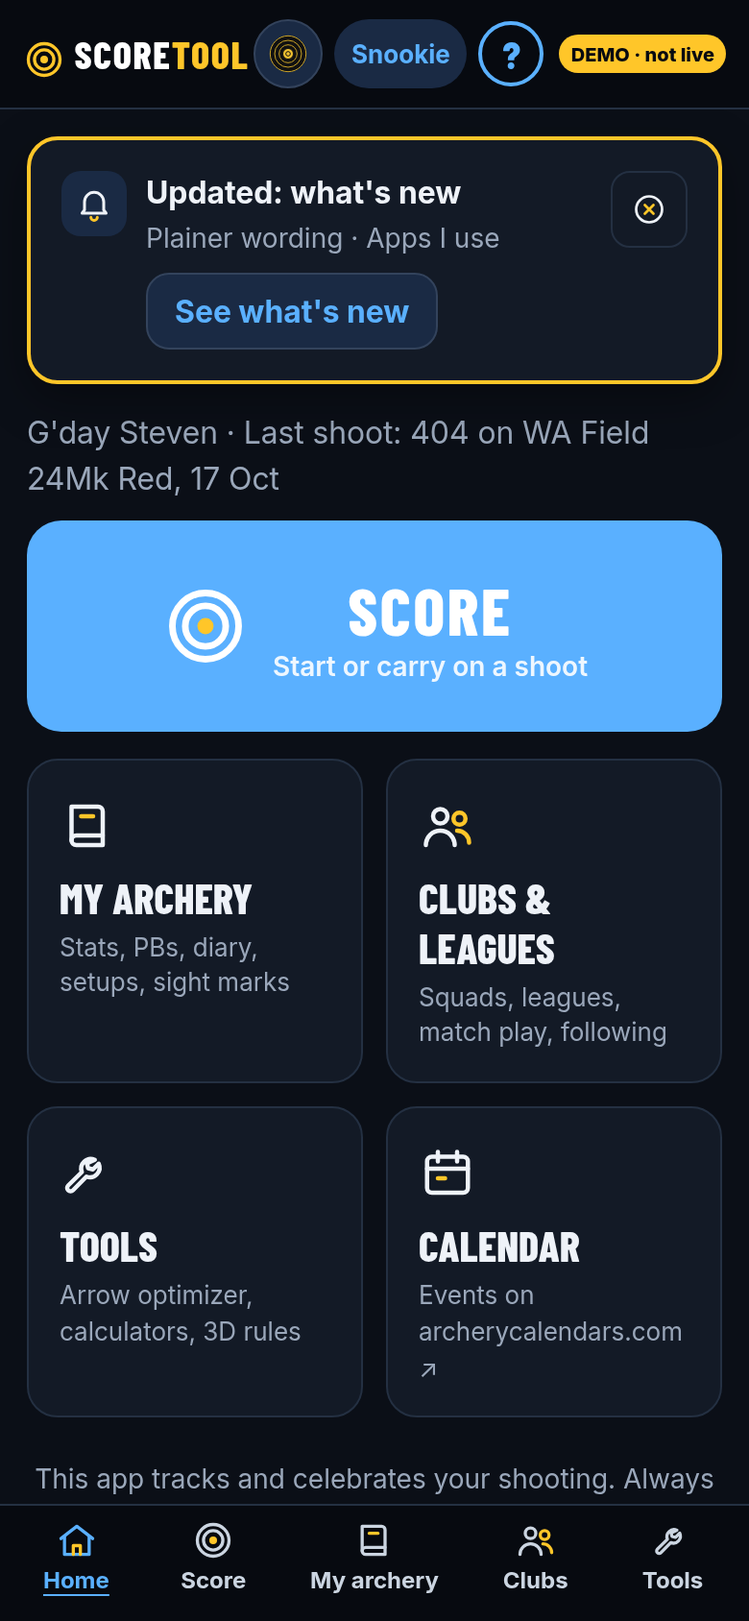
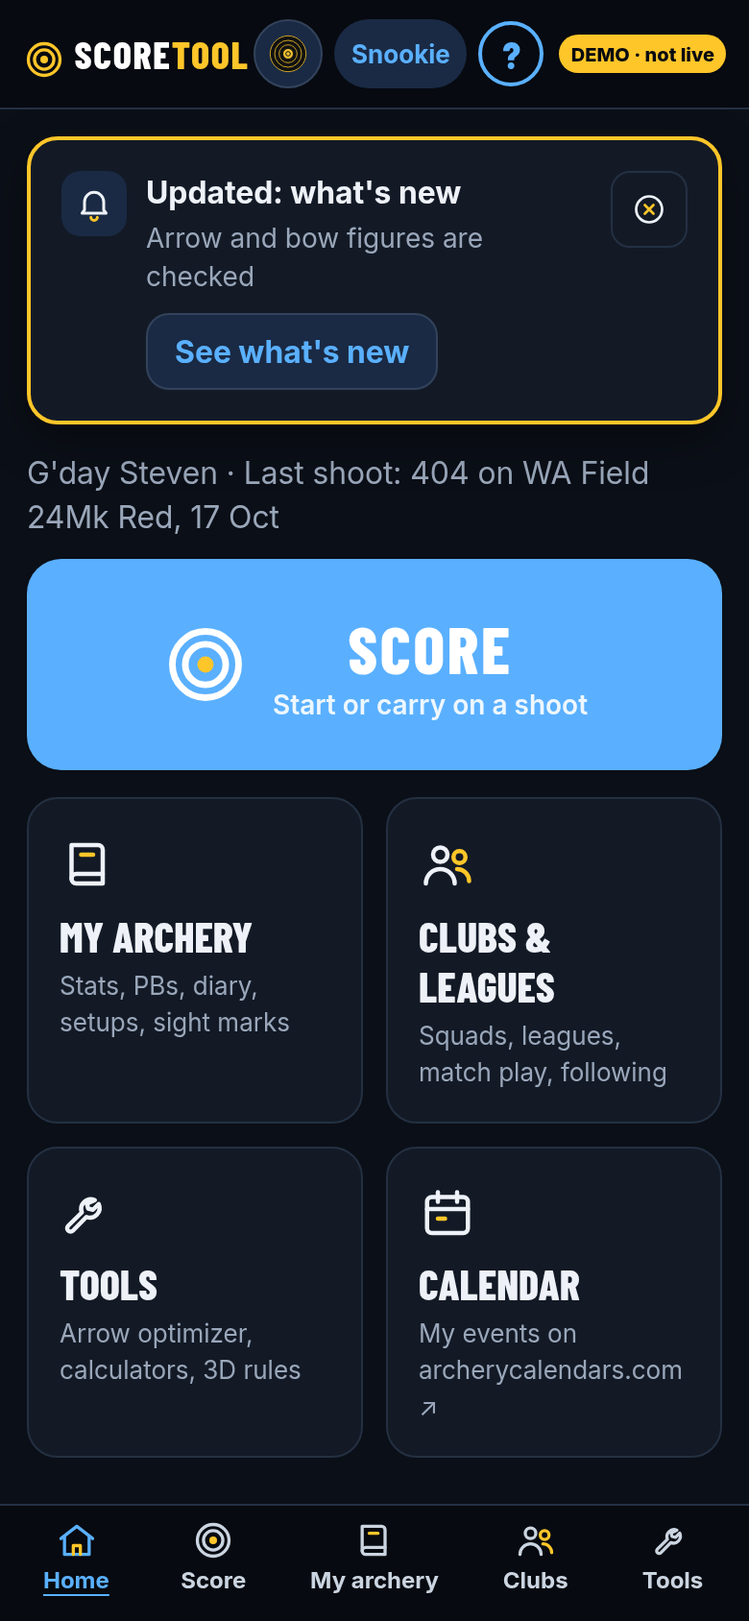
R1: sane ranges on arrow and bow figures (Arrow chooser, Calculators, Is this arrow right); flagged box keeps typed text, note in plain English, left out of sums; speed estimate never negative, '-' with reason; IBO 379 in range; r1_test (vv2026-11-03-0630-r1)
(cherry picked from commit 7a7711bc27ff00f9bb8e56d814cdfef7bdf05407)

diff --git a/arrowchooser.js b/arrowchooser.js
@@ -291,12 +291,16 @@ function build(st,d){d=d||{};const L=st.len+(d.dlen||0),pt=(isFinite(st.pt)?st.p
   const L0=st.len,pt0=st.pt,W0=gpi*L0+pt0+ins+nk+vn;A=(st.bp*W0-gpi*L0*L0/2-(pt0+ins)*L0+gpi*L*L/2+(pt+ins)*L)/tw;if(!d.dpt&&!d.dlen)A=st.bp}
  else A=(shaft*L/2+(pt+ins)*L+vn*vp)/tw;
  const foc=100*(A-L/2)/L;return{L,pt,tw,A,foc,meas,missing:[!isFinite(gpi)&&'shaft GPI',!isFinite(st.pt)&&'point weight',!isFinite(st.nock)&&'nock',!isFinite(st.vanes)&&'vanes'].filter(Boolean)}}
-const speedEst=(st,tw)=>{/* the Calculators' own rule of thumb (IBO rating, compound only) */if(st.bow!='compound'||!isFinite(st.ibo)||!isFinite(st.dl)||!isFinite(tw))return NaN;
- return Math.round(st.ibo-10*(30-st.dl)-Math.max(0,tw-5*st.dw)/3)};
+const speedEst=(st,tw)=>{/* the Calculators' own rule of thumb (IBO rating, compound only); R1: never negative, NaN unless every figure is in range */if(st.bow!='compound'||!isFinite(st.ibo)||!isFinite(st.dl)||!isFinite(tw))return NaN;
+ if(window.arrowSpeedEst)return arrowSpeedEst(st.ibo,st.dl,st.dw,tw);const e=Math.round(st.ibo-10*(30-st.dl)-Math.max(0,tw-5*st.dw)/3);return e>0?e:NaN};
+/* R1: a total arrow weight outside the usual range (a slip in length, shaft weight or point weight) is shown with a note and not used */
+const twBad=tw=>isFinite(tw)&&window.arrowLim?arrowLim('tw',Math.round(tw)):null;
 
 /* state, with numbers parsed */
 function parsed(){const R=load();const st={bow:R.bow||'recurve',use:USES.some(u=>u[0]==R.use)?R.use:'target',limb:R.limb||'carbon',hand:R.hand||'R'};
  ['dw','dl','len','pt','ibo','ins','nock','vanes','vpos','bp','fps','gpiU','contact'].forEach(k=>st[k]=num(R[k]));
+ /* R1: a figure outside its usual range is flagged on its box (st.bad) and left out, as if blank; the typed text stays in the box */
+ st.bad={};if(window.arrowLim)Object.entries({dw:'dw',dl:'dl',ibo:'ibo',len:'len',pt:'pt',gpiU:'gpi',ins:'ins',nock:'nock',vanes:'vanes',fps:'fps'}).forEach(([k,l])=>{const m=arrowLim(l,R[k]);if(m){st.bad[k]=m;st[k]=NaN}});
  st.lenIn=st.len;if(!isFinite(st.len))st.len=st.dl;st.pick=R.pick||null;st.gpi=isFinite(st.gpiU)?st.gpiU:(st.pick&&isFinite(st.pick.gpi)?st.pick.gpi:NaN);
  /* AC2: an Easton shaft's chosen parts fill the point, insert and nock boxes left blank (typed boxes win); bushings, pins and collars at the nock end */
  const EPt=eaParts(st.pick,R,st.bow);st.ep=EPt;st.fromP=[];st.bush=NaN;
@@ -310,6 +314,7 @@ function results(st){if(!isFinite(st.dw)||!isFinite(st.len))return null;return[e
 
 /* the archer's current arrow setup (used by the Arrow optimizer); null until there is a length and point weight */
 window.arrowSetup=function(){const{st}=parsed();if(!isFinite(st.len)||!isFinite(st.pt))return null;const b=build(st);
+ if(twBad(b.tw))b.tw=NaN;/* R1: an impossible total weight is not copied into a session */
  const fps=isFinite(st.fps)?st.fps:speedEst(st,b.tw);
  return{bow:st.bow,spine:st.pick?String(st.pick.spine):'',model:st.pick?st.pick.brand+' '+st.pick.model:'',len:st.len,pt:st.pt,
   foc:isFinite(b.foc)?+b.foc.toFixed(1):null,tw:isFinite(b.tw)?Math.round(b.tw):null,fps:isFinite(fps)?Math.round(fps):null,fpsSrc:isFinite(st.fps)?'measured':isFinite(fps)?'estimate':''}};
@@ -334,7 +339,8 @@ const CSS=`.acf .labseg{margin:0 0 10px}.acf label{display:block;margin:10px 0 4
 .acnear{margin:8px 0 0;border-top:1px dashed var(--line);padding-top:6px}.acnear>summary{font-weight:700;cursor:pointer;font-size:14px}.acdia{border-left:4px solid var(--blue);padding:6px 10px;background:var(--blue-bg);border-radius:8px}.acfrm{font-family:ui-monospace,Menlo,monospace;font-size:14px;background:var(--blue-bg);border-radius:8px;padding:8px 10px}`;
 function css(){if(!document.getElementById('accss')){const s=document.createElement('style');s.id='accss';s.textContent=CSS;document.head.appendChild(s)}}
 const seg=(k,v,opts)=>`<div class="labseg" role="group" aria-label="${k}">${opts.map(([val,l])=>`<button type="button" data-seg="${k}" data-val="${val}" aria-pressed="${v==val}">${l}</button>`).join('')}</div>`;
-const inp=(k,R,l,unit,ph,hint)=>`<label for="ac_${k}">${l}${unit?` <span class="muted small">(${unit})</span>`:''}</label><input id="ac_${k}" data-k="${k}" inputmode="decimal" value="${h(R[k]??'')}"${ph?` placeholder="${h(ph)}"`:''}>${hint?`<p class="hint">${hint}</p>`:''}`;
+let BAD={};/* R1: messages for flagged boxes, set each time the page is drawn */
+const inp=(k,R,l,unit,ph,hint)=>{const m=BAD[k];return`<label for="ac_${k}">${l}${unit?` <span class="muted small">(${unit})</span>`:''}</label><input id="ac_${k}" data-k="${k}" inputmode="decimal" value="${h(R[k]??'')}"${ph?` placeholder="${h(ph)}"`:''}${m?` aria-invalid="true" aria-describedby="acbad_${k}"`:''}>${m?`<p class="labbad" id="acbad_${k}" role="alert">${h(m)}</p>`:''}${hint?`<p class="hint">${hint}</p>`:''}`};
 
 /* AC3: shortest safe cut, Easton Tuning Guide p. 15 Fig. 21: mark an extra-long arrow at full draw about 1" in front of where it
    touches the most forward point of the rest (launcher); Correct Arrow Length runs from the bottom of the nock groove. The archer types
@@ -395,7 +401,7 @@ function partsLine(st){const E=st.ep;if(!E)return'';const bits=[];
  if(st.fromP.includes('nock'))bits.push(`nock ${gr(st.nock)} (${h(E.nock.n)})`);
  return`<p class="small" id="acpartsline" style="margin:6px 0 0">${bits.length?`From Easton's parts for ${h(st.pick.model)}: ${bits.join(', ')}.`:`No Easton part weights in use for ${h(st.pick.model)}.`}${st.bushOff?` The ${h(st.ep.end.n)} is not added because you typed your own insert or nock; choose it under Easton parts to add it.`:''} <span class="muted">Change them under Arrow parts for FOC.</span></p>`}
 
-E.lab_chooser=function(){css();const{R,st}=parsed();R0=()=>R;const res=results(st),fing=st.bow!='compound';
+E.lab_chooser=function(){css();const{R,st}=parsed();R0=()=>R;BAD=st.bad||{};const res=results(st),fing=st.bow!='compound';
  const pickKey=s=>s.brand+'|'+s.model+'|'+s.spine;const pk=st.pick?pickKey(st.pick):'';
  const nearHTML=b=>{if(!b.near||!b.near.length)return'';const cmp=st.bow=='compound';
   const lab=n=>n.side=='weaker'?(n.al?'next chart cell on the weaker side':'one size weaker than the chart range'):(n.al?'next chart cell on the stiffer side':'one size stiffer than the chart range');
@@ -470,7 +476,7 @@ E.lab_chooser=function(){css();const{R,st}=parsed();R0=()=>R;const res=results(s
   <p class="small" style="margin:0 0 6px">Easton's AMO-standard formula, as printed:</p>
   <p class="acfrm">F.O.C. % = 100 x (A - L/2) / L<br>L = Correct Arrow Length: bottom of nock groove to end of shaft<br>A = bottom of nock groove to the finished arrow's balance point (with point, insert, nock and fletching)</p>
   <p style="margin:10px 0 0" id="acfocout">FOC <span class="labout">${isFinite(B.foc)?f1(B.foc)+'%':'-'}</span> ${isFinite(B.foc)?`<span class="small muted">${B.meas?'from your measured balance point':'worked out from the component weights (an estimate)'}</span>`:'<span class="small muted">pick a shaft above and fill in the arrow parts</span>'}</p>
-  <p class="small" style="margin:2px 0 0">Total arrow weight <b>${isFinite(B.tw)?Math.round(B.tw)+' gr':'-'}</b>${isFinite(B.tw)?` <span class="muted">= ${st.gpi} gr/in x ${st.len}" + point ${st.pt}${isFinite(st.ins)?' + insert '+st.ins:''}${isFinite(st.nock)?' + nock '+st.nock:''}${isFinite(st.bush)?' + bushing/pin '+fmtN(st.bush):''}${isFinite(st.vanes)?' + vanes '+st.vanes:''}</span>`:''}${B.missing.length?`<br><span class="muted">Not counted yet: ${B.missing.join(', ')}.</span>`:''}</p>${partsLine(st)}
+  ${twBad(B.tw)?`<p class="labbad" id="actwbad" role="alert">${h(twBad(B.tw))} The total is worked out from the length, shaft weight, point and parts boxes, so check those.</p>`:''}<p class="small" style="margin:2px 0 0">Total arrow weight <b>${isFinite(B.tw)?Math.round(B.tw)+' gr':'-'}</b>${isFinite(B.tw)?` <span class="muted">= ${st.gpi} gr/in x ${st.len}" + point ${st.pt}${isFinite(st.ins)?' + insert '+st.ins:''}${isFinite(st.nock)?' + nock '+st.nock:''}${isFinite(st.bush)?' + bushing/pin '+fmtN(st.bush):''}${isFinite(st.vanes)?' + vanes '+st.vanes:''}</span>`:''}${B.missing.length?`<br><span class="muted">Not counted yet: ${B.missing.join(', ')}.</span>`:''}</p>${partsLine(st)}
   <p class="small" style="margin:6px 0 0">For ${h({target:'target',indoor:'indoor',field:'field','3d':'3D',hunting:'hunting'}[st.use])}: <b>${h(useFoc)}</b>.</p>
   ${focWarn(st,B)}
   <details class="acmore"><summary>FOC ranges</summary><div>${focRanges}<p class="small muted">The Calculators page has the same FOC formula for a measured balance point. "Use this arrow" sends the length and balance point there.</p></div></details>
@@ -510,7 +516,7 @@ E.lab_chooser=function(){css();const{R,st}=parsed();R0=()=>R;const res=results(s
  ['acfoc','acpt','acpark','accut','acfletch'].forEach(id=>{const d=document.getElementById(id);if(d)d.ontoggle=()=>{OPEN=d.open?id.slice(2):(OPEN==id.slice(2)?null:OPEN)}});
  const u=$('#acuse');if(u)u.onclick=()=>{const C=S.calc=S.calc||{gr:'400',ibo:'340',dl:'29',dw:'60',sg:'0',len:'29',bp:'17'};const sent=[],left=[];
   if(isFinite(st.len)){C.len=String(st.len);sent.push('arrow length')}
-  const b=build(st);
+  const b=build(st);if(twBad(b.tw)){b.tw=NaN;left.push('arrow weight (outside the usual range)')}
   if(isFinite(st.bp)){C.bp=String(st.bp);sent.push('balance point (measured)')}else if(isFinite(b.A)&&!b.missing.length){C.bp=b.A.toFixed(2);sent.push('balance point (worked out)')}else left.push('balance point');
   if(isFinite(b.tw)&&!b.missing.includes('shaft GPI')&&isFinite(st.pt)){C.gr=String(Math.round(b.tw));C.grU='';C.spdOn=1;sent.push('arrow weight'+(b.missing.length?' (without '+b.missing.join(', ')+')':''))}else left.push('arrow weight');
   if(st.bow=='compound'){if(isFinite(st.dw)){C.dw=String(st.dw);sent.push('draw weight')}if(isFinite(st.dl)){C.dl=String(st.dl);sent.push('draw length')}if(isFinite(st.ibo)){C.ibo=String(st.ibo);sent.push('IBO speed')}else left.push('IBO speed')}

diff --git a/lab.js b/lab.js
@@ -3,6 +3,20 @@
 (function(){
 const E=window.EXTRA_VIEWS=window.EXTRA_VIEWS||{};
 const h=t=>String(t??'').replace(/[&<>"]/g,c=>({'&':'&amp;','<':'&lt;','>':'&gt;','"':'&quot;'}[c]));
+/* R1 (3 Nov 2026, Nathe via Archery Coach): sane ranges for the arrow and bow figures typed into the Arrow chooser and the Calculators.
+   A figure outside its range (or not a number) is flagged on its own box in plain English and left out of the sums until it is fixed,
+   so a slip like 12365 gr can never give a negative speed. The typed text is kept as typed; nothing saved is changed or rewritten. */
+const ARROW_LIM={dw:['Draw weight',5,90,'lb'],dl:['Draw length',14,34,'inches'],ibo:['Speed rating',200,400,'fps'],tw:['Arrow weight',100,1000,'gr'],
+ len:['Arrow length',14,36,'inches'],pt:['Point weight',10,400,'gr'],gpi:['Shaft weight',2,30,'grains per inch'],ins:['Insert, pin or collar',0,150,'gr'],
+ nock:['Nock',0,40,'gr'],vanes:['Vanes',0,100,'gr'],fps:['Arrow speed',100,450,'fps'],sg:['Extra weight on the string',0,100,'gr'],bp:['Balance point',1,36,'inches']};
+/* null if blank or fine; otherwise the message for that box */
+window.arrowLim=function(k,v){const L=ARROW_LIM[k];if(!L)return null;const t=String(v??'').trim();if(t==='')return null;const x=parseFloat(t.replace(',','.'));
+ const nice=n=>String(n);if(!isFinite(x)||!/^-?\d*[.,]?\d+$/.test(t))return`${L[0]}: "${t}" is not a number. Type the number only, in ${L[3]}. It is left out until it is fixed.`;
+ if(x<L[1]||x>L[2])return`${L[0]}: ${nice(x)} ${L[3]} is outside the usual range of ${L[1]} to ${L[2]} ${L[3]}. Check the number. It is left out until it is fixed.`;return null};
+window.ARROW_LIM=ARROW_LIM;
+/* the speed rule of thumb only where it makes sense: every input in range and a result of at least 100 fps; otherwise NaN, never a negative speed */
+window.arrowSpeedEst=function(ibo,dl,dw,tw,sg){const L=window.arrowLim;if([['ibo',ibo],['dl',dl],['dw',dw],['tw',tw]].some(([k,v])=>!isFinite(v)||L(k,v))||(isFinite(sg)&&L('sg',sg)))return NaN;
+ const e=ibo-10*(30-dl)-Math.max(0,tw-5*dw)/3-(isFinite(sg)?sg:0)/3;return e>=100?Math.round(e):NaN};
 const SECTION={home:'home',score:'score',stats:'myarch',analytics:'myarch',diary:'myarch',badges:'myarch',recap:'myarch',rewards:'myarch',squad:'clubs',follow:'clubs',profile:'me',help:'me',suggest:'me',whatsnew:'me',me:'me'};
 const secOf=v=>v.startsWith('lab_')?(LABSEC[v]||'home'):(SECTION[v]||v);
 const LABSEC={};
@@ -219,16 +233,21 @@ LABSEC.lab_calc='tools';
    'fps' value (the 280 default) is left in storage but no longer read; overrides use new keys fpsU and grU. */
 E.lab_calc=function(){const C=S.calc=S.calc||{gr:'400',ibo:'340',dl:'29',dw:'60',sg:'0',len:'29',bp:'17'};
  const n=k=>parseFloat(C[k]),SL=7000*32.174,set=k=>C[k]!=null&&String(C[k]).trim()!=='';
- const gr0=n('gr'),est=n('ibo')-10*(30-n('dl'))-Math.max(0,gr0-5*n('dw'))/3-n('sg')/3;
+ /* R1: each box is checked against its range (arrowLim); a flagged box is left out, so the speed shows '-' with the reason, never a negative figure */
+ const LK={ibo:'ibo',dl:'dl',dw:'dw',gr:'tw',sg:'sg',grU:'tw',fpsU:'fps',len:'len',bp:'bp'},bad=k=>window.arrowLim?arrowLim(LK[k],C[k]):null;
+ const nOk=k=>bad(k)?NaN:n(k);
+ const gr0=nOk('gr'),sgV=set('sg')?nOk('sg'):0,spdBad=['ibo','dl','dw','gr','sg'].some(k=>bad(k));
+ const est=window.arrowSpeedEst?arrowSpeedEst(nOk('ibo'),nOk('dl'),nOk('dw'),gr0,sgV):n('ibo')-10*(30-n('dl'))-Math.max(0,gr0-5*n('dw'))/3-n('sg')/3;
+ const estWhy=isFinite(est)?'':spdBad?'Fix the flagged box above to see the speed.':['ibo','dl','dw','gr'].some(k=>!set(k))?'Fill in all four boxes to see the speed.':'No estimate: the rule of thumb gives under 100 fps for these figures, so it does not fit this setup. A chronograph reading is better.';
  const vAuto=C.spdOn&&isFinite(est)&&est>0?Math.round(est):NaN;
- const own=set('fpsU'),v=own?n('fpsU'):vAuto,gr=set('grU')?n('grU'):gr0,ok=isFinite(v)&&v>0&&isFinite(gr)&&gr>0;
+ const own=set('fpsU'),v=own?nOk('fpsU'):vAuto,gr=set('grU')?nOk('grU'):gr0,ok=isFinite(v)&&v>0&&isFinite(gr)&&gr>0;
  const ke=ok?gr*v*v/(2*SL):NaN,mo=ok?gr*v/SL:NaN;
- const foc=(n('bp')-n('len')/2)/n('len')*100;
+ const foc=bad('len')||bad('bp')?NaN:(n('bp')-n('len')/2)/n('len')*100;
  const f=(x,d=1)=>isFinite(x)?x.toFixed(d):'-';
- const inp=(k,l,u,val,ph)=>`<label for="c_${k}">${l} <span class="muted small">(${u})</span></label><input id="c_${k}" data-c="${k}" inputmode="decimal" value="${h(val!==undefined?val:(C[k]==null?'':C[k]))}"${ph?` placeholder="${ph}"`:''}>`;
+ const inp=(k,l,u,val,ph)=>{const m=bad(k);return`<label for="c_${k}">${l} <span class="muted small">(${u})</span></label><input id="c_${k}" data-c="${k}" inputmode="decimal" value="${h(val!==undefined?val:(C[k]==null?'':C[k]))}"${ph?` placeholder="${ph}"`:''}${m?` aria-invalid="true" aria-describedby="cbad_${k}"`:''}>${m?`<p class="labbad" id="cbad_${k}" role="alert">${h(m)}</p>`:''}`};
  app.innerHTML=`<div class="labgrid2">
  <div class="card"><span class="kicker">Arrow speed estimate · compound</span>${inp('ibo','IBO/ATA','fps')}${inp('dl','Draw length','inches')}${inp('dw','Draw weight','lb')}${inp('gr','Arrow weight','grains')}${inp('sg','Extra weight on the string','grains')}
-  <p>About <span class="labout">${f(est,0)}</span> fps <span class="muted">(${f(est*0.3048)} m/s)</span></p>
+  <p>About <span class="labout" id="c_est">${f(est,0)}</span> fps <span class="muted">(${f(est*0.3048)} m/s)</span></p>${estWhy?`<p class="small" id="c_estwhy">${h(estWhy)}</p>`:''}
   <p class="small muted">${C.spdOn?'This speed and arrow weight are used in the card below.':'Change any figure here and the speed is used in the card below.'}</p>
   <p class="labsrc">Estimate only, using the common rule of thumb from the IBO rating (30" draw, 5 grains per lb): −10 fps per inch under 30", −1 fps per 3 grains of arrow over 5 grains per lb, −1 fps per 3 grains on the string. A chronograph reading is always better.</p></div>
  <div class="card"><span class="kicker">Kinetic energy &amp; momentum</span>${inp('grU','Arrow weight','grains',set('grU')?C.grU:(isFinite(gr0)?C.gr:''))}${inp('fpsU','Arrow speed','feet per second',own?C.fpsU:(isFinite(vAuto)?String(vAuto):''),'0')}

diff --git a/sw.js b/sw.js
@@ -1,4 +1,4 @@
-/* ScoreTool service worker v2026-11-01-1446-relayhold (offline, 20 Oct 2026). Built by tools/build_sw.py: do not edit sw.js by hand.
+/* ScoreTool service worker v2026-11-03-0630-r1 (offline, 20 Oct 2026). Built by tools/build_sw.py: do not edit sw.js by hand.
    Install: precache the app shell, every script and style index.html loads, fonts, icons and all data files, then take over
    (skipWaiting), so the app reopens from scratch with no signal (Peel group card included).
    Fetch (same-origin GET only): network first, so a new deploy always shows; anything that answers is saved to the cache. With no
@@ -6,7 +6,7 @@
    to the cached index.html. version.json and sw.js are never served from the cache, so the update check (update.js) only ever
    sees the real live version. Cross-origin requests (ntfy relay, archerycalendars.com, clarity.ms) are not touched: no cache, straight to the network.
    Activate: delete every older scoretool-* cache. A new version = a new sw.js, so the browser installs it on the next check. */
-const V='v2026-11-01-1446-relayhold',CACHE='scoretool-'+V,PRE=["./", "index.html", "version.json", "icons/apple-touch-icon.png", "favicon-32.png", "favicon-16.png", "favicon.ico", "icons/icon.svg", "style.css", "lab.css", "manifest.webmanifest", "vendor/jspdf.umd.min.js", "vendor/ac-icon.png", "clarity.js", "icons.js", "coach_messages.js", "ratings.js", "rankings.js", "tags.js", "testers.js", "app.js", "diary.js", "gear.js", "sightest.js", "sightimport.js", "sightcard.js", "sightseed_nathe.js", "rewards.js", "squads.js", "fairplay.js", "follow.js", "help.js", "whatsnew.js", "analytics.js", "insights.js", "best.js", "real.js", "aba.js", "share.js", "stats2.js", "h2h.js", "names.js", "shootup.js", "league.js", "casual.js", "peel.js", "rules_wa_aa.js", "rules_data.js", "lab.js", "arrowchooser.js", "bows.js", "arrows.js", "arrowcheck.js", "calsync.js", "photos.js", "shotview.js", "backup.js", "update.js", "fonts/BarlowCondensed-Bold.woff2", "fonts/BarlowCondensed-ExtraBold.woff2", "fonts/Inter-var.woff2", "icons/icon-192.png", "icons/icon-512-maskable.png", "icons/icon-512.png", "data/ad_dana.json", "data/ad_darnie.json", "data/ad_estiaan.json", "data/ad_joseph.json", "data/ad_logan.json", "data/ad_michael.json", "data/ad_phill.json", "data/ad_steven.json", "data/ad_tahuri.json", "data/archer_scores.csv", "data/arrows.csv", "data/bow_specs.json", "data/ghost_top.json", "data/my_scoresheets.json", "data/nathe_ad.json", "data/rankings.json", "data/records.json", "data/sheets_dana.json", "data/sheets_darnie.json", "data/sheets_estiaan.json", "data/sheets_joseph.json", "data/sheets_logan.json", "data/sheets_michael.json", "data/sheets_phill.json", "data/sheets_steven.json", "data/sheets_tahuri.json", "help/g/casual-dark.webp", "help/g/casual-light.webp", "help/g/clubs-dark.webp", "help/g/clubs-light.webp", "help/g/myarch-dark.webp", "help/g/myarch-light.webp", "help/g/score-dark.webp", "help/g/score-light.webp", "help/g/scoring-dark.webp", "help/g/scoring-light.webp", "help/g/settings-dark.webp", "help/g/settings-light.webp", "help/g/start-dark.webp", "help/g/start-light.webp", "help/g/stats-dark.webp", "help/g/stats-light.webp", "help/g/tools-dark.webp", "help/g/tools-light.webp"],WAIT=3500;
+const V='v2026-11-03-0630-r1',CACHE='scoretool-'+V,PRE=["./", "index.html", "version.json", "icons/apple-touch-icon.png", "favicon-32.png", "favicon-16.png", "favicon.ico", "icons/icon.svg", "style.css", "lab.css", "manifest.webmanifest", "vendor/jspdf.umd.min.js", "vendor/ac-icon.png", "clarity.js", "icons.js", "coach_messages.js", "ratings.js", "rankings.js", "tags.js", "testers.js", "app.js", "diary.js", "gear.js", "sightest.js", "sightimport.js", "sightcard.js", "sightseed_nathe.js", "rewards.js", "squads.js", "fairplay.js", "follow.js", "help.js", "whatsnew.js", "analytics.js", "insights.js", "best.js", "real.js", "aba.js", "share.js", "stats2.js", "h2h.js", "names.js", "shootup.js", "league.js", "casual.js", "peel.js", "rules_wa_aa.js", "rules_data.js", "lab.js", "arrowchooser.js", "bows.js", "arrows.js", "arrowcheck.js", "calsync.js", "photos.js", "shotview.js", "backup.js", "update.js", "fonts/BarlowCondensed-Bold.woff2", "fonts/BarlowCondensed-ExtraBold.woff2", "fonts/Inter-var.woff2", "icons/icon-192.png", "icons/icon-512-maskable.png", "icons/icon-512.png", "data/ad_dana.json", "data/ad_darnie.json", "data/ad_estiaan.json", "data/ad_joseph.json", "data/ad_logan.json", "data/ad_michael.json", "data/ad_phill.json", "data/ad_steven.json", "data/ad_tahuri.json", "data/archer_scores.csv", "data/arrows.csv", "data/bow_specs.json", "data/ghost_top.json", "data/my_scoresheets.json", "data/nathe_ad.json", "data/rankings.json", "data/records.json", "data/sheets_dana.json", "data/sheets_darnie.json", "data/sheets_estiaan.json", "data/sheets_joseph.json", "data/sheets_logan.json", "data/sheets_michael.json", "data/sheets_phill.json", "data/sheets_steven.json", "data/sheets_tahuri.json", "help/g/casual-dark.webp", "help/g/casual-light.webp", "help/g/clubs-dark.webp", "help/g/clubs-light.webp", "help/g/myarch-dark.webp", "help/g/myarch-light.webp", "help/g/score-dark.webp", "help/g/score-light.webp", "help/g/scoring-dark.webp", "help/g/scoring-light.webp", "help/g/settings-dark.webp", "help/g/settings-light.webp", "help/g/start-dark.webp", "help/g/start-light.webp", "help/g/stats-dark.webp", "help/g/stats-light.webp", "help/g/tools-dark.webp", "help/g/tools-light.webp"],WAIT=3500;
 const key=u=>{const x=new URL(u,self.registration.scope);x.search='';x.hash='';return x.href};
 self.addEventListener('install',e=>e.waitUntil(caches.open(CACHE).then(c=>Promise.all(PRE.map(u=>fetch(new Request(u,{cache:'reload'})).then(r=>{if(r&&r.ok)return c.put(key(u),r)}).catch(()=>{})))).then(()=>self.skipWaiting())));
 self.addEventListener('activate',e=>e.waitUntil(caches.keys().then(K=>Promise.all(K.filter(k=>k.startsWith('scoretool-')&&k!=CACHE).map(k=>caches.delete(k)))).then(()=>self.clients.claim())));

diff --git a/arrowcheck.js b/arrowcheck.js
@@ -66,8 +66,10 @@ function write(id,vals,base){const sets=typeof mySets=='function'?mySets():[],a=
 E._ackTest={focVerdict,spineVerdict,FOCR};
 const _ca=E.lab_calc;if(_ca)E.lab_calc=function(){_ca();css();const C=S.calc||{};const grid=app.querySelector('.labgrid2'),cards=grid?[...grid.querySelectorAll(':scope > .card')]:[];if(cards.length<3)return;
  const n=k=>num(C[k]),has=k=>C[k]!=null&&String(C[k]).trim()!=='';
- const est=n('ibo')-10*(30-n('dl'))-Math.max(0,n('gr')-5*n('dw'))/3-n('sg')/3,own=has('fpsU');
- const fps=own?n('fpsU'):(C.spdOn&&isFinite(est)&&est>0?Math.round(est):NaN);
+ /* R1: the same range-checked rule of thumb as the speed card, so a slip (12365 gr) never gives or saves a speed */
+ const L=window.arrowLim||(()=>null),ok1=(k,l)=>L(l,C[k])?NaN:n(k);
+ const est=window.arrowSpeedEst?arrowSpeedEst(ok1('ibo','ibo'),ok1('dl','dl'),ok1('dw','dw'),ok1('gr','tw'),has('sg')?ok1('sg','sg'):0):n('ibo')-10*(30-n('dl'))-Math.max(0,n('gr')-5*n('dw'))/3-n('sg')/3,own=has('fpsU');
+ const fps=own?ok1('fpsU','fps'):(C.spdOn&&isFinite(est)&&est>0?Math.round(est):NaN);
  const foc=(n('bp')-n('len')/2)/n('len')*100;
  const oF=C.arrF?window.myArrow&&myArrow(C.arrF):null,oS=C.arrS?window.myArrow&&myArrow(C.arrS):null;
  /* L6 (AC1, 1 Nov 2026): until the speed card is used or a bow is picked there, check with the current saved bow's figures, not the 340 fps default */
@@ -95,7 +97,7 @@ const _ca=E.lab_calc;if(_ca)E.lab_calc=function(){_ca();css();const C=S.calc||{}
  const pf=$('#c_arrF');if(pf){const o0=pf.onchange;pf.onchange=function(){delete C.spine;delete C.pt;CF=null;return o0&&o0.apply(this,arguments)}}
  const ps=$('#c_arrS');if(ps){const o1=ps.onchange;ps.onchange=function(){CF=null;return o1&&o1.apply(this,arguments)}}
  /* ---- (a) Save to this arrow ---- */
- const valsS=()=>({totalGr:isFinite(n('gr'))?Math.round(n('gr')):'',fps:isFinite(fps)?Math.round(fps):'',fpsSrc:isFinite(fps)?(own?'own':'estimate'):'',bow:bowName(C),date:today()});
+ const valsS=()=>({totalGr:isFinite(ok1('gr','tw'))?Math.round(n('gr')):'',fps:isFinite(fps)?Math.round(fps):'',fpsSrc:isFinite(fps)?(own?'own':'estimate'):'',bow:bowName(C),date:today()});
  const valsF=()=>{const o=oF||{};const prev=(o.calc||{});const v={foc:isFinite(foc)?+f1(foc):'',bow:bowName(C),use,date:today()};
   if(!prev.totalGr&&o.weight)v.totalGr=Math.round(o.weight);if(C.arrS==C.arrF){const s=valsS();if(s.totalGr)v.totalGr=s.totalGr;if(s.fps){v.fps=s.fps;v.fpsSrc=s.fpsSrc}}return v};
  const diffsF=()=>{if(!oF)return[];const d=[];const add=(k,l,u,to)=>{if(to==null||String(to).trim()==='')return;const from=String(oF[k]??'').trim(),t=String(to).trim();

diff --git a/whatsnew.js b/whatsnew.js
@@ -3,8 +3,10 @@
    To add a release: put a new entry at the TOP with v = the version written to version.json by tools/build_sw.py.
    The Home card shows once when WHATSNEW[0].v is newer than the one this phone has seen (key scoretool.whatsnew.seen). */
 window.WHATSNEW=[
+  {v:'v2026-11-03-0630-r1',d:'2026-11-03',items:[
+   ['arrow',"Arrow and bow figures are checked","In the Arrow chooser and the Calculators, a figure outside the usual range for that box, like a 12365 gr arrow or a 200 lb draw weight, is now pointed out under the box in plain words and left out until you fix it. The speed estimate shows a dash and the reason instead of a figure that cannot be right, and it is never below zero. Nothing you saved before is changed."]]},
   {v:'v2026-11-01-1446-relayhold',d:'2026-11-01',items:[
-   ['check',"Fewer sends to the score relay","The app re-sends your whole league or group card when it opens at most once every half hour, and if the relay is busy it waits 15 seconds before trying that again. Your scores still send as you shoot, and anything waiting sends as soon as the relay or your signal is back."]]},
+   ['check',"Fewer sends to the score relay","The app re-sends your whole league or group card when it opens at most once every half hour, and if the relay is busy it waits 15 seconds before trying that again. Your scores still send as you shoot, and anything waiting sends as soon as the relay or your signal is back.",'a7ea130']]},
   {v:'v2026-11-01-1349-ac6',d:'2026-11-01',items:[
    ['arrow',"Build an arrow: a new Help guide","Help has a new guide, Build an arrow: eight steps from your bow details and the spine chart to cutting, gluing and a bare-shaft or paper tune. Each step shows where it comes from (Easton's guides and Bow International) and has a link that opens the right box in the Arrow chooser.",'b58d178']]},
   {v:'v2026-11-01-1343-ac5',d:'2026-11-01',items:[

diff --git a/lab.css b/lab.css
@@ -170,3 +170,7 @@ details.hg .go{color:var(--muted);font-size:22px;transition:transform .15s}detai
 [data-theme=light] .vg-slot.on{background:#e3ecff;border-color:#b7791f;color:#0f172a}
 [data-theme=light] .lc-chip{background:#e3ecff;color:#0f172a;border-color:#bcd0f5}
 [data-theme=light] .lc-chip.on{background:#1d4ed8;color:#fff;border:2px solid #ffc629}
+
+/* R1: a box whose figure is outside its usual range: plain note under the box, gold edge like the chooser's warnings (no red, no icon) */
+.labbad{border-left:4px solid var(--gold,#c9a227);background:var(--blue-bg);border-radius:8px;padding:6px 10px;font-size:14px;margin:4px 0 8px}
+input[aria-invalid=true]{border-color:var(--gold,#c9a227);box-shadow:0 0 0 1px var(--gold,#c9a227)}

diff --git a/tools/r1_test.py b/tools/r1_test.py
@@ -1,0 +1,100 @@
+# R1 (3 Nov 2026, Nathe via Archery Coach): sane ranges on the arrow and bow figures. A figure outside its usual range (12365 gr was
+# accepted) or not a number is flagged on its own box in plain English and left out; the speed estimate shows '-' with the reason and is
+# never negative (it showed -3643 fps). IBO 379 (the Concept X 40 prefill) is in range. Arrow chooser, Calculators speed and KE cards,
+# Is this arrow right. 390px, no emoji on the new text, no console errors, saved tester data unchanged. Test data only. BASE=<url> for a deployed copy.
+import subprocess,sys,time,os,json,re
+sys.path.insert(0,os.path.dirname(os.path.abspath(__file__)))
+from playwright.sync_api import sync_playwright
+import guard
+import nm_seed,freeport
+ROOT=os.path.dirname(os.path.dirname(os.path.abspath(__file__)))
+PORT=os.environ.get('PORT') or freeport.get();BASE=os.environ.get('BASE');URL=BASE or f'http://localhost:{PORT}/'
+ok=[];bad=[]
+def chk(n,c):(ok if c else bad).append(n)
+srv=None if BASE else subprocess.Popen([sys.executable,'-m','http.server',PORT,'--bind','127.0.0.1'],cwd=ROOT,stdout=subprocess.DEVNULL,stderr=subprocess.DEVNULL);time.sleep(1)
+OLD="(()=>{const d=JSON.parse(localStorage.getItem('scoretool.v1')||'{}');return JSON.stringify({b:d.bows,s:d.sessions,t:d.tune,u:d.setup,sel:d.bowSel,spec:d.bowSpec,a:d.arrowInfo})})()"
+SEEDJS="""()=>{const d=JSON.parse(localStorage.getItem('scoretool.v1')||'{}');d.bowSel=d.bowSel||{};delete d.bowSel[d.profile];
+ localStorage.setItem('scoretool.v1',JSON.stringify(d));localStorage.removeItem('scoretool.arrowchooser.nathe')}"""
+SHOTS=os.environ.get('SHOTS')
+def shot(pg,name):
+    if SHOTS:os.makedirs(SHOTS,exist_ok=True);pg.screenshot(path=os.path.join(SHOTS,name+'.png'),full_page=False)
+def setR(pg,R):pg.evaluate("R=>localStorage.setItem('scoretool.arrowchooser.nathe',JSON.stringify(R))",R)
+def chooser(pg):pg.evaluate("nav('lab_chooser')");pg.wait_for_timeout(500)
+def calc(pg,C):
+    pg.evaluate("C=>{S.calc=C;save()}",C);pg.evaluate("nav('lab_calc')");pg.wait_for_timeout(500)
+def fillc(pg,k,v):pg.fill(f'#c_{k}',str(v));pg.press(f'#c_{k}','Tab');pg.wait_for_timeout(300)
+def est(pg):return pg.inner_text('#c_est').strip()
+def has(pg,sel):return pg.locator(sel).count()>=1
+NEG=re.compile(r'(?<![\d\w])-\s?\d+(\.\d+)?\s*fps')
+EMO=lambda t:any(ord(c)>0x1F000 or 0x2600<=ord(c)<0x27C0 for c in t)
+with sync_playwright() as p:
+  b=p.chromium.launch(executable_path='/usr/bin/google-chrome',args=['--headless=new','--no-sandbox'])
+  ctx=b.new_context(viewport={'width':390,'height':844});pg=ctx.new_page();errs=[]
+  pg.on('pageerror',lambda e:errs.append(str(e)));pg.on('console',lambda m:m.type=='error' and errs.append(m.text))
+  pg.goto(URL);pg.wait_for_timeout(1500);nm_seed.pick(pg,'nathe');pg.wait_for_timeout(500)
+  if pg.get_by_text('Demo unlock').count():pg.get_by_text('Demo unlock').first.click();pg.wait_for_timeout(500)
+  for _ in range(3):
+    if pg.locator('nav [data-v=home]').is_visible():break
+    pg.locator('#app button').first.click();pg.wait_for_timeout(400)
+  pg.evaluate(SEEDJS);pg.reload();pg.wait_for_timeout(1800)
+  before=pg.evaluate(OLD);calc0=pg.evaluate("JSON.stringify(S.calc||null)")
+  # --- Calculators speed card
+  calc(pg,{'gr':'400','ibo':'379','dl':'29','dw':'60','sg':'0','len':'29','bp':'17','spdOn':1})
+  chk('calc: good figures give the estimate (379 IBO)',est(pg)=='336' and not has(pg,'.labbad'))
+  chk('calc: IBO 379 not flagged',not has(pg,'#cbad_ibo'))
+  fillc(pg,'gr',12365)
+  t=pg.inner_text('#app')
+  chk('calc: 12365 gr flagged on the arrow weight box',has(pg,'#cbad_gr') and 'outside the usual range of 100 to 1000 gr' in pg.inner_text('#cbad_gr'))
+  chk('calc: flagged box keeps what was typed',pg.input_value('#c_gr')=='12365' and pg.get_attribute('#c_gr','aria-invalid')=='true')
+  chk('calc: speed shows - with the reason, not -3643',est(pg)=='-' and has(pg,'#c_estwhy') and 'flagged' in pg.inner_text('#c_estwhy'))
+  chk('calc: no negative fps anywhere',not NEG.search(t))
+  chk('calc: KE not worked out from a flagged weight','Energy' not in t or not re.search(r'-\d',pg.inner_text('#app')))
+  shot(pg,'r1-calc-12365gr');pg.locator('#c_est').scroll_into_view_if_needed();pg.evaluate("scrollBy(0,150)");shot(pg,'r1-calc-speed-dash')
+  fillc(pg,'gr',400);chk('calc: fixing the box clears the note',est(pg)=='336' and not has(pg,'#cbad_gr'))
+  for k,v,word in [('ibo',500,'Speed rating'),('dw',200,'Draw weight'),('dl',45,'Draw length')]:
+    fillc(pg,k,v);chk(f'calc: {k} {v} flagged',has(pg,f'#cbad_{k}') and word in pg.inner_text(f'#cbad_{k}') and est(pg)=='-')
+  calc(pg,{'gr':'400','ibo':'379','dl':'29','dw':'60','sg':'0','len':'29','bp':'17','spdOn':1})
+  fillc(pg,'dw','abc');chk('calc: not a number flagged in plain English',has(pg,'#cbad_dw') and 'is not a number' in pg.inner_text('#cbad_dw'))
+  calc(pg,{'gr':'1000','ibo':'200','dl':'14','dw':'5','sg':'0','len':'29','bp':'17','spdOn':1})
+  chk('calc: in-range figures that would go negative show - and say why',est(pg)=='-' and 'under 100 fps' in pg.inner_text('#c_estwhy') and not NEG.search(pg.inner_text('#app')))
+  calc(pg,{'gr':'400','ibo':'379','dl':'29','dw':'60','sg':'0','len':'29','bp':'17','spdOn':1,'fpsU':'-50'})
+  chk('calc: own speed -50 flagged',has(pg,'#cbad_fpsU'))
+  chk('calc: page has no emoji in the new notes',not EMO(' '.join(pg.locator('.labbad,#c_estwhy').all_inner_texts())))
+  chk('calc 390px no sideways scroll',pg.evaluate("document.documentElement.scrollWidth")<=392)
+  # --- Arrow chooser
+  base={'bow':'compound','use':'target','dw':'60','dl':'29','ibo':'379','len':'28','pt':'100','gpiU':'9'}
+  setR(pg,base);chooser(pg)
+  chk('chooser: good figures, nothing flagged, IBO 379 fine',not has(pg,'.labbad'))
+  S0=pg.evaluate("JSON.stringify(arrowSetup())");s0=json.loads(S0)
+  chk('chooser: speed estimate is positive',s0 and s0.get('fps') and s0['fps']>0)
+  setR(pg,dict(base,pt='12365'));chooser(pg)
+  chk('chooser: 12365 gr point flagged on its box',pg.locator('#acbad_pt').count()==1 and 'Point weight: 12365 gr is outside the usual range' in pg.text_content('#acbad_pt'))
+  chk('chooser: flagged box keeps the typed text',pg.input_value('#ac_pt')=='12365' and pg.get_attribute('#ac_pt','aria-invalid')=='true')
+  chk('chooser: flagged point not used in a session snapshot',pg.evaluate("arrowSetup()") is None)
+  setR(pg,dict(base,gpiU='30',len='36',pt='400',ins='150'));chooser(pg)
+  chk('chooser: total weight over 1000 gr flagged',has(pg,'#actwbad') and 'Arrow weight' in pg.inner_text('#actwbad'))
+  s=pg.evaluate("arrowSetup()")
+  chk('chooser: no weight or negative speed passed on',s is not None and s.get('tw') in (None,) and (s.get('fps') is None or s['fps']>0))
+  shot(pg,'r1-chooser-heavy')
+  pg.evaluate("C=>{S.calc=C;save()}",{'gr':'400','ibo':'379','dl':'29','dw':'60','sg':'0','len':'29','bp':'17'})
+  if pg.locator('#acuse').count() and pg.locator('#acuse').is_enabled():
+    pg.click('#acuse');pg.wait_for_timeout(300)
+    chk('chooser: Use this arrow does not send a weight over 1000 gr',pg.evaluate("S.calc.gr")=='400')
+  else:chk('chooser: Use this arrow does not send a weight over 1000 gr',True)
+  setR(pg,dict(base,dw='200',dl='45',ibo='900'));chooser(pg)
+  chk('chooser: draw weight, draw length, IBO flagged',all(pg.locator(f'#acbad_{k}').count()==1 for k in ('dw','dl','ibo')))
+  shot(pg,'r1-chooser-bowfigures')
+  t=pg.inner_text('#app');chk('chooser: no negative fps',not NEG.search(t))
+  chk('chooser: no emoji',not EMO(t))
+  chk('chooser 390px no sideways scroll',pg.evaluate("document.documentElement.scrollWidth")<=392)
+  setR(pg,dict(base,dw='38',bow='recurve',ibo=''));chooser(pg);chk('chooser: recurve 38 lb fine',not has(pg,'.labbad'))
+  wn=pg.evaluate("JSON.stringify((window.WHATSNEW||[])[0]||'')");V=pg.evaluate("fetch('version.json',{cache:'no-store'}).then(r=>r.json()).then(j=>j.version)")
+  allwn=pg.evaluate("JSON.stringify(window.WHATSNEW||[])").lower()
+  chk('release note present',('usual range' in wn.lower()) if V.endswith('-r1') else ('usual range' in allwn))
+  pg.evaluate("C=>{S.calc=C;save()}",json.loads(calc0));pg.evaluate("localStorage.removeItem('scoretool.arrowchooser.nathe')")
+  chk('old data unchanged',json.loads(pg.evaluate(OLD))==json.loads(before))
+  chk('no console errors',not errs);errs and print(errs[:5])
+  ctx.close();b.close()
+if srv:srv.terminate()
+print(f'{len(ok)} passed, {len(bad)} failed');bad and print('FAIL',bad)
+sys.exit(1 if bad else 0)

diff --git a/qa/run_regression.py b/qa/run_regression.py
@@ -31,6 +31,7 @@ AREAS=[
     ("Arrow chooser fletching suggestion",["ac5_test.py"]),
     ("Help: Build an arrow guide",["ac6_test.py"]),
  ("Relay hold (no resend storm on the relay)",["relayhold_test.py"]),
+ ("Arrow and bow figure ranges (R1)",["r1_test.py"]),
  ('Casual shoot',['casual_test.py','mixedface_test.py','casual3d_test.py','custom3d_test.py','mel3d_test.py','chipcolors_test.py']),
  ('League',['league_test.py','nopreset_test.py','onionrestore_test.py','leslie_test.py','lgscroll_test.py','lgpage_test.py']),
  ('ABA',['aba_test.py']),

diff --git a/CHANGELOG.md b/CHANGELOG.md
@@ -50,6 +50,21 @@ Looked for existing R1/R2/R3 work to merge: origin has only main at a7ea130, no 
 One entry per release, newest first. Every release records: what changed, the files touched, and the tests run (before the deploy, and again on the live URL after).
 Process (agreed 26 Oct 2026): do not change anything that already works while fixing something else. Before every deploy run `python3 qa/run_regression.py` (all areas, see `qa/regression.md`), then run `python3 qa/run_regression.py --live https://nfstride1-ux.github.io/scoretool-demo/` after it is live. Any suite that fails is either fixed (if the change caused it) or listed here as a known failure. Earlier releases are in `git log`; user-facing notes are in `whatsnew.js`.
 
+## v2026-11-03-0630-r1 (2026-11-03)
+### What changed
+- R1 (Nathe via Archery Coach, bot meeting 3 Nov 2026 6:25am AWST): input checks on the arrow and bow figures. 12365 gr was accepted and the Calculators speed estimate showed -3643 fps.
+- Usual ranges, one table in lab.js (ARROW_LIM, window.arrowLim): draw weight 5-90 lb, draw length 14-34 in, speed rating (IBO or ATA) 200-400 fps (379, the Concept X 40 prefill, is in range and left as it is), arrow weight 100-1000 gr, arrow length 14-36 in, point 10-400 gr, shaft 2-30 gr/in, insert/pin/collar 0-150 gr, nock 0-40 gr, vanes 0-100 gr, arrow speed 100-450 fps, string weight 0-100 gr, balance point 1-36 in.
+- A figure outside its range, or text that is not a number, is flagged under its own box in plain English (gold edge, no red, no icon; aria-invalid on the box), kept as typed and left out of every sum until it is fixed.
+- Speed estimate (window.arrowSpeedEst, used by the Calculators speed card, the Arrow chooser and Is this arrow right): worked out only when every figure is in range and the result is at least 100 fps; otherwise it shows - with the reason. It is never negative.
+- Arrow chooser: a worked-out total arrow weight over 1000 gr (or under 100) is flagged under the total and is not copied into a tuning session (arrowSetup) or sent by Use this arrow. Is this arrow right does not save a weight or speed from a flagged box.
+- No saved data is changed or rewritten: figures saved before stay as they were and are only flagged when shown.
+### Files
+lab.js (ranges, check, speed rule, Calculators boxes), arrowchooser.js (box notes, total weight note, speed, arrowSetup, Use this arrow), arrowcheck.js (speed and weight), lab.css (.labbad), tools/r1_test.py (new), qa/run_regression.py, qa/regression.md, whatsnew.js (also relayhold commit hash), CHANGELOG.md (also fills in the relayhold after and live lines), version.json, sw.js, index.html.
+### Tests
+- Before (baseline): full regression 81 passed, 0 failed (relayhold, a7ea130)
+- Single runs: r1_test 32 passed, 0 failed; whatsnew_test 33 passed, 0 failed.
+- After: RESULT_AFTER
+- Live: not deployed yet (waiting for Nathe's OK).
 ## v2026-11-01-1446-relayhold (2026-11-01)
 ### What changed
 - Relay fix for ntfy.sh 429 throttling (Level 1 report item N1: about one relay message per league arrow; parked since 1 Nov 03:20 as 329c66e + 76604ee, never pushed). The slow-start half of that work already shipped alone as squadfix (7d171df), so it is not repeated here.
@@ -63,8 +78,8 @@ h2h.js, league.js, casual.js, tools/relayhold_test.py (new), tools/whatsnew_test
 ### Tests
 - Before (baseline): full regression 81 passed, 0 failed (AC6 after-run, b58d178)
 - Single runs: relayhold_test 10 passed, 0 failed; peel_data_test 2/0 (unchanged); whatsnew_test 33 passed, 0 failed (with the unchanged test it fails only "testers' data unchanged", 32/1, which is the new key).
-- After: RESULT_AFTER
-- Live (https://nfstride1-ux.github.io/scoretool-demo/, version.json v2026-11-01-1446-relayhold): relayhold_test and whatsnew_test are run on the live URL after the deploy; the result is added to this entry by the next release.
+- After: full regression 81 passed, 0 failed (recorded in /workspace/scoretool-queue-log.md at the relayhold release)
+- Live (https://nfstride1-ux.github.io/scoretool-demo/, version.json v2026-11-01-1446-relayhold): live since 1 Nov 2026, commit a7ea130.
 ## v2026-11-01-1349-ac6 (2026-11-01)
 ### What changed
 - AC6, new Help guide "Build an arrow" (after Tools), eight steps in order: bow details; spine from the chart; shortest safe cut; point weight and FOC (Easton 7-16% range, indoor target 7-15%, outdoor target 10-15%); bushings and nocks; fletching (sourced, not from Dr Park); cutting, gluing and squaring; bare-shaft or paper tune.

diff --git a/qa/regression.md b/qa/regression.md
@@ -30,6 +30,7 @@ Each suite uses a fresh browser profile and test data only. Nothing is sent anyw
 | Arrow chooser fletching suggestion | ac5 | Fletching suggestion by use (indoor, outdoor, 3D, hunting) and launcher rest for compound, figures as printed by Bow International and Easton's Tuning Guide, each line sourced, marked Not from Dr Park. Reads only, old data unchanged, 390px. |
 | Help: Build an arrow guide | ac6 | Help guide Build an arrow: 8 steps in order, each citing its source and opening its field in the Arrow chooser (shown, section open, cursor in the box); links write nothing; 390px; no emoji. |
 | Relay hold | relayhold | Relay turns a topic away (429): one try, then a 15 second hold for that topic, then one more try (polls also turned away while busy); any send or poll that gets through, or coming back online, clears the hold and the score sends; reopening re-sends the league snapshot at most once every 30 minutes (after 30 minutes it re-sends, so catch-up works); the time of that re-send is kept only in its own key scoretool.opost.<archer>.<code>, never in the saved record; no page errors. |
+| Arrow and bow figure ranges | r1 | Arrow chooser, Calculators speed and KE cards: a figure outside its usual range (draw weight 5-90 lb, draw length 14-34", IBO/ATA 200-400 fps, arrow weight 100-1000 gr, length 14-36", point 10-400 gr, shaft 2-30 gpi, speed 100-450 fps) or not a number is flagged under its box in plain English, kept as typed and left out; the speed estimate shows - with the reason and is never negative; IBO 379 is not flagged; nothing flagged is passed to a session or the Calculators; old data unchanged, 390px, no emoji. |
 | Casual shoot | casual, mixedface, casual3d, custom3d, mel3d | Setup choice, discipline faces and keys, 3D/ABA, custom rounds |
 | League | league | Onion Shed 6 x Vegas 300, cumulative ranking, X ties, missing weeks |
 | ABA | aba | ABA Interclub first half 3-arrow, second half 1-arrow, sheet view |
